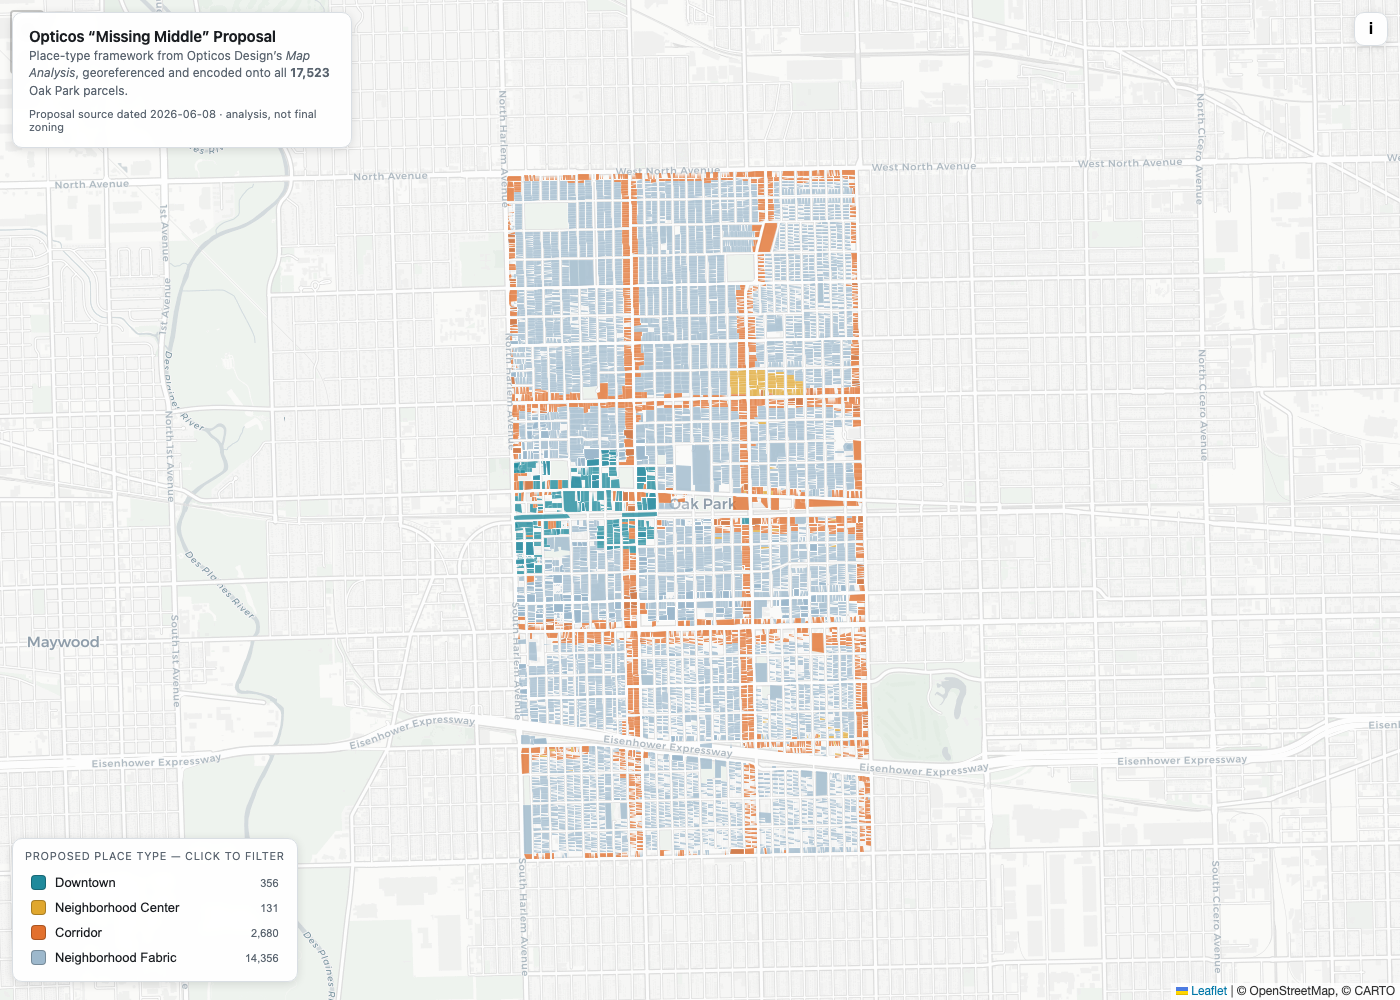
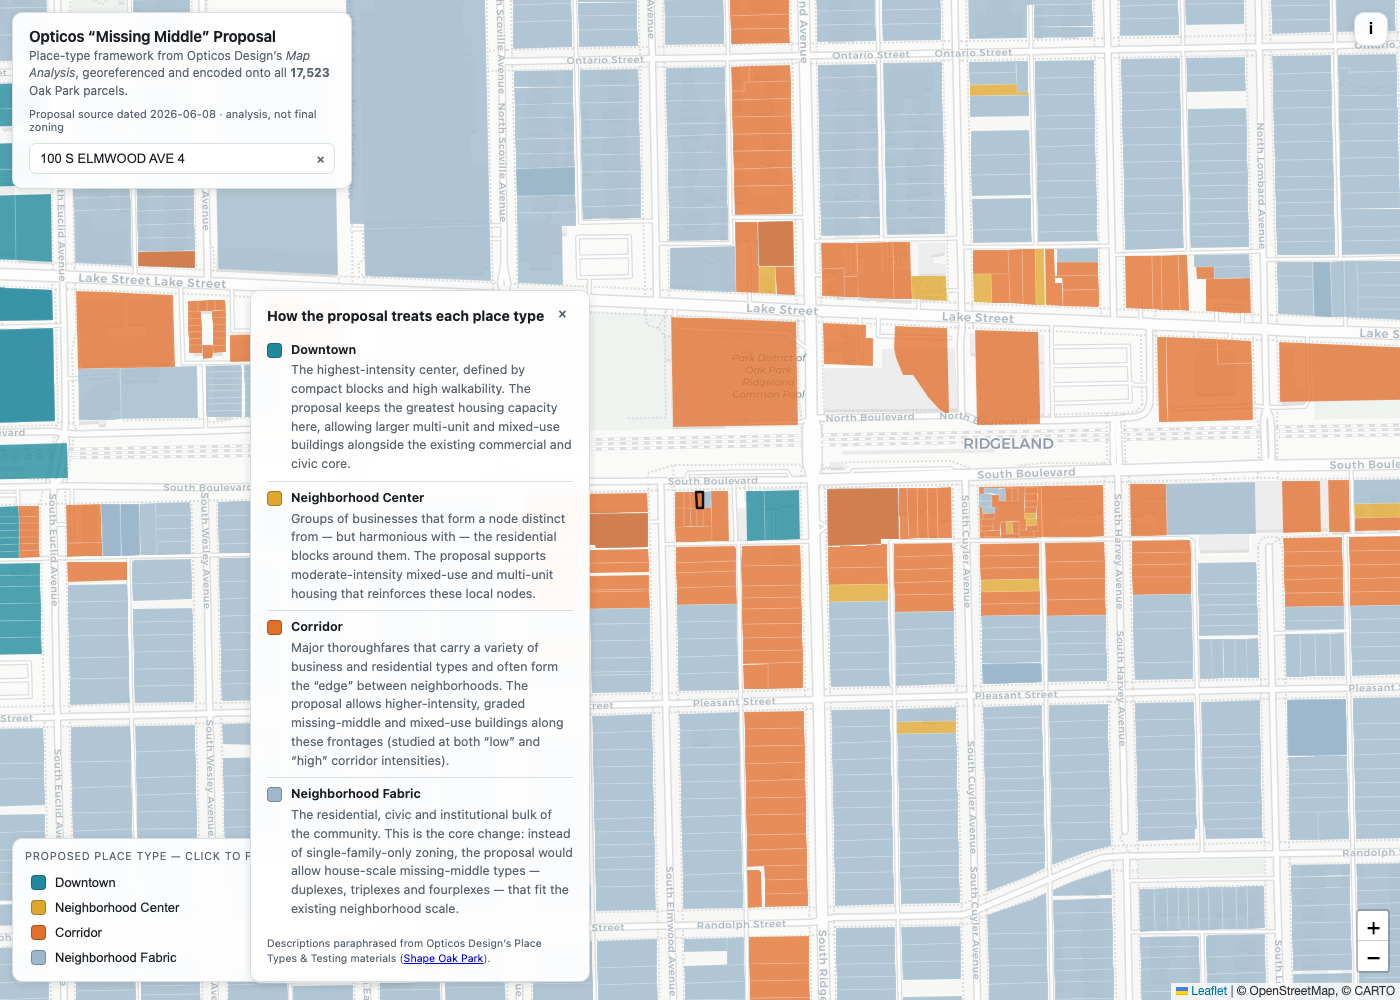
Add address/PIN search and per-place-type proposal explanations
- Address/PIN typeahead search (matches oak-park-properties UX) with
  fly-to, parcel highlight, and ?pin= permalinks
- Plain-language 'what changes here' blurb in each popup, expandable to
  the full Opticos place-type description
- 'What do these mean?' panel summarizing all four place types

diff --git a/index.html b/index.html
@@ -25,6 +25,20 @@
   #titlecard h1{margin:0 0 2px;font-size:15px;font-weight:650;letter-spacing:-.01em}
   #titlecard p{margin:0;font-size:12px;color:var(--muted);line-height:1.45}
   #titlecard .asof{margin-top:8px;font-size:11px;color:var(--muted)}
+  #searchwrap{position:relative;margin-top:10px}
+  #search{width:100%;padding:7px 28px 7px 10px;font-size:13px;color:var(--fg);
+    background:var(--bg);border:1px solid var(--border);border-radius:7px;outline:none}
+  #search:focus{border-color:var(--corridor)}
+  #clr{position:absolute;right:6px;top:50%;transform:translateY(-50%);border:none;background:none;
+    color:var(--muted);cursor:pointer;font-size:15px;line-height:1;padding:4px;display:none}
+  #results{position:absolute;left:0;right:0;top:calc(100% + 4px);z-index:1200;background:var(--panel);
+    border:1px solid var(--border);border-radius:8px;box-shadow:var(--shadow);overflow:hidden;display:none;max-height:260px;overflow-y:auto}
+  #results.show{display:block}
+  .res{display:block;width:100%;text-align:left;border:none;background:none;color:var(--fg);
+    cursor:pointer;padding:7px 10px;font-size:12.5px;border-bottom:1px solid var(--border)}
+  .res:last-child{border-bottom:none}
+  .res:hover,.res.sel{background:color-mix(in srgb,var(--corridor) 16%,transparent)}
+  .res small{color:var(--muted);display:block;font-size:11px}
   #legend{bottom:18px;left:12px;padding:10px 12px 11px;min-width:220px}
   #legend .lh{font-size:11px;text-transform:uppercase;letter-spacing:.06em;color:var(--muted);margin:0 0 8px}
   .row{display:flex;align-items:center;gap:9px;width:100%;padding:5px 6px;border:none;background:none;
@@ -40,6 +54,18 @@
   #infobox a{color:var(--corridor)}
   .leaflet-popup-content{font-size:12.5px;line-height:1.5}
   .pt{display:inline-block;padding:1px 7px;border-radius:999px;color:#fff;font-weight:600;font-size:11px}
+  #ptlink{border:none;background:none;color:var(--corridor);cursor:pointer;font-size:11px;padding:0;
+    text-transform:none;letter-spacing:0;float:right}
+  #ptbox{bottom:18px;left:250px;max-width:340px;padding:14px 16px;display:none;font-size:12.5px;line-height:1.5}
+  @media (max-width:720px){#ptbox{left:12px;right:12px;bottom:auto;top:12px;max-width:none}}
+  #ptbox.show{display:block}
+  #ptclose,#ptbody .more{border:none;background:none;color:var(--muted);cursor:pointer;font-size:16px}
+  .ptrow{display:flex;gap:9px;padding:7px 0;border-top:1px solid var(--border)}
+  .ptrow:first-child{border-top:none}
+  .ptrow .sw{margin-top:2px}
+  .ptrow b{font-weight:650}
+  .ptrow p{margin:2px 0 0;color:var(--muted)}
+  .popmore{border:none;background:none;color:var(--corridor);cursor:pointer;font-size:12px;padding:2px 0 0}
 </style>
 </head>
 <body>
@@ -49,6 +75,12 @@
   <h1>Opticos “Missing Middle” Proposal</h1>
   <p>Place-type framework from Opticos Design’s <em>Map Analysis</em>, georeferenced and encoded onto all <strong id="pcount">—</strong> Oak Park parcels.</p>
   <div class="asof">Proposal source dated 2026-06-08 · analysis, not final zoning</div>
+  <div id="searchwrap">
+    <input id="search" type="text" placeholder="Search address or PIN…" autocomplete="off"
+      aria-label="Search address or PIN" />
+    <button id="clr" aria-label="Clear search">×</button>
+    <div id="results" role="listbox"></div>
+  </div>
 </div>
 
 <button id="info" class="panel" aria-label="Data sources and method">i</button>
@@ -65,8 +97,21 @@
 </div>
 
 <div id="legend" class="panel">
-  <p class="lh">Proposed place type — click to filter</p>
+  <p class="lh">Proposed place type — click to filter
+    <button id="ptlink" aria-label="What do these mean?">ⓘ what do these mean?</button></p>
   <div id="rows"></div>
+</div>
+
+<div id="ptbox" class="panel">
+  <div style="display:flex;justify-content:space-between;align-items:center;margin-bottom:8px">
+    <strong style="font-size:14px">How the proposal treats each place type</strong>
+    <button id="ptclose" aria-label="Close">×</button>
+  </div>
+  <div id="ptbody"></div>
+  <p style="font-size:10.5px;color:var(--muted);margin:10px 0 0">
+    Descriptions paraphrased from Opticos Design’s Place Types &amp; Testing materials
+    (<a href="https://engageoakpark.com/shape/documents" target="_blank" rel="noopener">Shape Oak Park</a>).
+  </p>
 </div>
 
 <script src="https://unpkg.com/leaflet@1.9.4/dist/leaflet.js"></script>
@@ -79,8 +124,25 @@ const COLORS = {
 const ORDER = ['Downtown','Neighborhood Center','Corridor','Neighborhood Fabric'];
 const active = new Set(ORDER);
 
-const map = L.map('map',{preferCanvas:true, zoomControl:true}).setView([41.888,-87.789],14);
-L.control.zoom({position:'bottomright'});
+// Plain-language summary of how the proposal treats each place type.
+// Paraphrased from Opticos's Place Types & Testing materials.
+const PLACE = {
+  'Downtown':{
+    blurb:'Oak Park’s highest-intensity, most walkable core — shops, civic uses, entertainment and housing mixed together.',
+    detail:'The highest-intensity center, defined by compact blocks and high walkability. The proposal keeps the greatest housing capacity here, allowing larger multi-unit and mixed-use buildings alongside the existing commercial and civic core.'},
+  'Neighborhood Center':{
+    blurb:'A small cluster of businesses woven into the surrounding residential blocks.',
+    detail:'Groups of businesses that form a node distinct from — but harmonious with — the residential blocks around them. The proposal supports moderate-intensity mixed-use and multi-unit housing that reinforces these local nodes.'},
+  'Corridor':{
+    blurb:'Frontage along a major street, mixing business and residential building types.',
+    detail:'Major thoroughfares that carry a variety of business and residential types and often form the “edge” between neighborhoods. The proposal allows higher-intensity, graded missing-middle and mixed-use buildings along these frontages (studied at both “low” and “high” corridor intensities).'},
+  'Neighborhood Fabric':{
+    blurb:'The residential heart of Oak Park — where “missing middle everywhere” applies.',
+    detail:'The residential, civic and institutional bulk of the community. This is the core change: instead of single-family-only zoning, the proposal would allow house-scale missing-middle types — duplexes, triplexes and fourplexes — that fit the existing neighborhood scale.'}
+};
+
+const map = L.map('map',{preferCanvas:true, zoomControl:false}).setView([41.888,-87.789],14);
+L.control.zoom({position:'bottomright'}).addTo(map);
 const base = dark
  ? 'https://{s}.basemaps.cartocdn.com/dark_all/{z}/{x}/{y}{r}.png'
  : 'https://{s}.basemaps.cartocdn.com/light_all/{z}/{x}/{y}{r}.png';
@@ -92,26 +154,58 @@ function style(f){
   return {renderer, color: dark?'#0c0f13':'#ffffff', weight:0.3,
           fillColor: COLORS[pt]||'#888', fillOpacity: active.has(pt)?0.78:0, opacity: active.has(pt)?0.5:0};
 }
-let layer;
+let layer, gjData;
 const counts = {};
+const byPin = new Map();        // pin -> leaflet layer
+const searchIdx = [];           // {pin, address, place_type, layer}
+let highlighted = null;
+
+function popupHTML(p, expanded){
+  const info = PLACE[p.place_type] || {blurb:'',detail:''};
+  const more = expanded
+    ? `<div style="margin-top:4px">${info.detail}</div>`
+    : (info.detail ? `<button class="popmore" onclick="expandPopup('${p.pin}')">What changes here? ▸</button>` : '');
+  return `<span class="pt" style="background:${COLORS[p.place_type]}">${p.place_type}</span>`+
+    (p.commercial_bldg?` <span class="pt" style="background:#8e182b">commercial bldg</span>`:``)+
+    `<div style="margin-top:5px;color:var(--muted)">${info.blurb}</div>`+ more +
+    `<hr style="border:none;border-top:1px solid var(--border);margin:7px 0"/>`+
+    `<strong>${p.address||'—'}</strong><br/>PIN ${p.pin} · class ${p.class}<br/>`+
+    `<span style="color:var(--muted)">${p.description||''}</span><br/>`+
+    `<a href="${p.url}" target="_blank" rel="noopener">Assessor record ↗</a>`;
+}
+window.expandPopup = (pin)=>{
+  const l = byPin.get(pin); if(!l) return;
+  l.setPopupContent(popupHTML(l.feature.properties, true));
+};
+
+function selectParcel(l, fly){
+  if(highlighted && highlighted!==l) layer.resetStyle(highlighted);
+  highlighted = l;
+  l.setStyle({color:'#111', weight:2.5, opacity:1, fillOpacity:0.9});
+  l.bringToFront();
+  if(fly) map.setView(l.getBounds().getCenter(), 17, {animate:!matchMedia('(prefers-reduced-motion: reduce)').matches});
+  if(!l.getPopup()) l.bindPopup(popupHTML(l.feature.properties, false));
+  else l.setPopupContent(popupHTML(l.feature.properties, false));
+  l.openPopup();
+  const url = new URL(location); url.searchParams.set('pin', l.feature.properties.pin);
+  history.replaceState(null,'',url);
+}
 
 fetch('parcels_proposal.geojson').then(r=>r.json()).then(gj=>{
+  gjData = gj;
   document.getElementById('pcount').textContent = gj.features.length.toLocaleString();
   for(const f of gj.features){const p=f.properties.place_type; counts[p]=(counts[p]||0)+1;}
   layer = L.geoJSON(gj,{style, onEachFeature:(f,l)=>{
     const p=f.properties;
-    l.on('click',()=>{
-      l.bindPopup(
-        `<span class="pt" style="background:${COLORS[p.place_type]}">${p.place_type}</span>`+
-        (p.commercial_bldg?` <span class="pt" style="background:#8e182b">commercial bldg</span>`:``)+
-        `<br/><strong>${p.address||'—'}</strong><br/>`+
-        `PIN ${p.pin} · class ${p.class}<br/>`+
-        `<span style="color:var(--muted)">${p.description||''}</span><br/>`+
-        `<a href="${p.url}" target="_blank" rel="noopener">Assessor record ↗</a>`
-      ).openPopup();
-    });
+    byPin.set(p.pin, l);
+    searchIdx.push({pin:p.pin, address:(p.address||''), pt:p.place_type, layer:l});
+    l.bindPopup(()=>popupHTML(p,false));
+    l.on('click',()=>selectParcel(l,false));
   }}).addTo(map);
   buildLegend();
+  // permalink: ?pin=…
+  const pin = new URLSearchParams(location.search).get('pin');
+  if(pin && byPin.has(pin)) selectParcel(byPin.get(pin), true);
 });
 
 function buildLegend(){
@@ -122,11 +216,48 @@ function buildLegend(){
     b.innerHTML=`<span class="sw" style="background:${COLORS[pt]}"></span>${pt}<span class="ct">${(counts[pt]||0).toLocaleString()}</span>`;
     b.onclick=()=>{ if(active.has(pt)){active.delete(pt);b.setAttribute('aria-pressed','false');}
                    else{active.add(pt);b.setAttribute('aria-pressed','true');}
-                   layer.setStyle(style); };
+                   layer.setStyle(style); if(highlighted) selectParcel(highlighted,false); };
     rows.appendChild(b);
   }
 }
-document.getElementById('info').onclick=()=>document.getElementById('infobox').classList.toggle('show');
+
+// ---- address / PIN search ----
+const search=document.getElementById('search'), results=document.getElementById('results'), clr=document.getElementById('clr');
+let selIdx=-1, matches=[];
+function runSearch(){
+  const q=search.value.trim().toLowerCase();
+  clr.style.display=q?'block':'none';
+  if(q.length<2){ results.classList.remove('show'); return; }
+  matches=searchIdx.filter(r=>r.address.toLowerCase().includes(q)||r.pin.includes(q)).slice(0,8);
+  results.innerHTML=matches.map((r,i)=>
+    `<button class="res${i===selIdx?' sel':''}" data-i="${i}">${r.address||'(no address)'}<small>PIN ${r.pin} · ${r.pt}</small></button>`).join('');
+  results.classList.toggle('show', matches.length>0);
+  results.querySelectorAll('.res').forEach(el=>el.onclick=()=>choose(+el.dataset.i));
+}
+function choose(i){
+  const r=matches[i]; if(!r) return;
+  search.value=r.address||r.pin; results.classList.remove('show');
+  selectParcel(r.layer, true);
+}
+search.addEventListener('input',()=>{selIdx=-1;runSearch();});
+search.addEventListener('focus',runSearch);
+search.addEventListener('keydown',e=>{
+  if(e.key==='ArrowDown'){selIdx=Math.min(selIdx+1,matches.length-1);runSearch();e.preventDefault();}
+  else if(e.key==='ArrowUp'){selIdx=Math.max(selIdx-1,0);runSearch();e.preventDefault();}
+  else if(e.key==='Enter'){choose(selIdx<0?0:selIdx);}
+  else if(e.key==='Escape'){results.classList.remove('show');search.blur();}
+});
+clr.onclick=()=>{search.value='';clr.style.display='none';results.classList.remove('show');search.focus();};
+document.addEventListener('click',e=>{ if(!e.target.closest('#searchwrap')) results.classList.remove('show'); });
+
+// ---- info + place-type explainer panels ----
+const infobox=document.getElementById('infobox'), ptbox=document.getElementById('ptbox');
+document.getElementById('info').onclick=()=>{infobox.classList.toggle('show');ptbox.classList.remove('show');};
+document.getElementById('ptclose').onclick=()=>ptbox.classList.remove('show');
+document.getElementById('ptbody').innerHTML=ORDER.map(pt=>
+  `<div class="ptrow"><span class="sw" style="background:${COLORS[pt]}"></span>`+
+  `<div><b>${pt}</b><p>${PLACE[pt].detail}</p></div></div>`).join('');
+document.getElementById('ptlink').onclick=()=>{ptbox.classList.toggle('show');infobox.classList.remove('show');};
 </script>
 </body>
 </html>